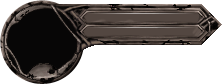
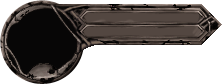
minor modifications to UI

Changed region(s): [[0.4324, 0.3095, 0.8378, 0.3333], [0.4324, 0.1429, 0.8378, 0.1667]]

diff --git a/akurra/ui.py b/akurra/ui.py
@@ -37,10 +37,11 @@ class UIModule(Module):
 
         self.font = pygame.font.SysFont('monospace', 9)
 
-        self.layer = DisplayLayer(flags=pygame.SRCALPHA, z_index=110)
+        self.layer = DisplayLayer(flags=pygame.SRCALPHA, z_index=140)
 
         self.surfaces = {}
         self.surfaces['portrait_main'] = self.assets.get_image('graphics/ui/portrait/main.png', alpha=True)
+        self.surfaces['portrait_name_bar'] = self.assets.get_image('graphics/ui/portrait/name_bar.png', alpha=True)
         self.surfaces['portrait_health_bar'] = self.assets.get_image('graphics/ui/portrait/health_bar.png', alpha=True)
         self.surfaces['health_bar_small'] = self.assets.get_image('tmp/health_bar_small.png', alpha=True)
 
@@ -50,8 +51,10 @@ class UIModule(Module):
 
         self.offsets = {}
         self.offsets['portrait'] = [20, 20]
-        self.offsets['portrait_health_bar'] = [103, 33]
-        self.offsets['portrait_health_text'] = [115, 32]
+        self.offsets['portrait_name_bar'] = [103, 33]
+        self.offsets['portrait_name_text'] = [115, 32]
+        self.offsets['portrait_health_bar'] = [103, 47]
+        self.offsets['portrait_health_text'] = [115, 46]
         self.offsets['portrait_mana_orb'] = [105, 70]
         self.offsets['portrait_mana_orb_text'] = [119, 80]
 
@@ -77,13 +80,17 @@ class UIModule(Module):
         # self.layer.surface.fill([0, 0, 0, 0])
         self.layer.surface.blit(self.surfaces['portrait_main'], self.offsets['portrait'])
 
+        self.layer.surface.blit(self.surfaces['portrait_name_bar'], self.offsets['portrait_name_bar'])
+        name_text = self.font.render(player.components['character'].name, 1, [255, 255, 255])
+        self.layer.surface.blit(name_text, self.offsets['portrait_name_text'])
+
         # The width of the health bar should reflect the player's health percentage
         health_percentage = health_component.health / health_component.max
         self.layer.surface.blit(self.surfaces['portrait_health_bar'], self.offsets['portrait_health_bar'],
                                 [0, 0, int(health_percentage * self.surfaces['portrait_health_bar'].get_width()), 900])
 
         health_text = self.font.render('%s/%s' % (math.floor(health_component.health), health_component.max), 1,
-                                       [225, 225, 225])
+                                       [205, 205, 205])
         self.layer.surface.blit(health_text, self.offsets['portrait_health_text'])
 
         portrait_mana_orb_offset = list(self.offsets['portrait_mana_orb'])

diff --git a/akurra/mouse.py b/akurra/mouse.py
@@ -176,7 +176,7 @@ class MouseModule(Module):
         self.display = self.container.get(DisplayModule)
         self.entities = self.container.get(EntityManager)
 
-        self.cursor_layer = EntityDisplayLayer(z_index=102, flags=pygame.SRCALPHA)
+        self.cursor_layer = EntityDisplayLayer(z_index=180, flags=pygame.SRCALPHA)
         self.load_cursor()
 
     def start(self):
